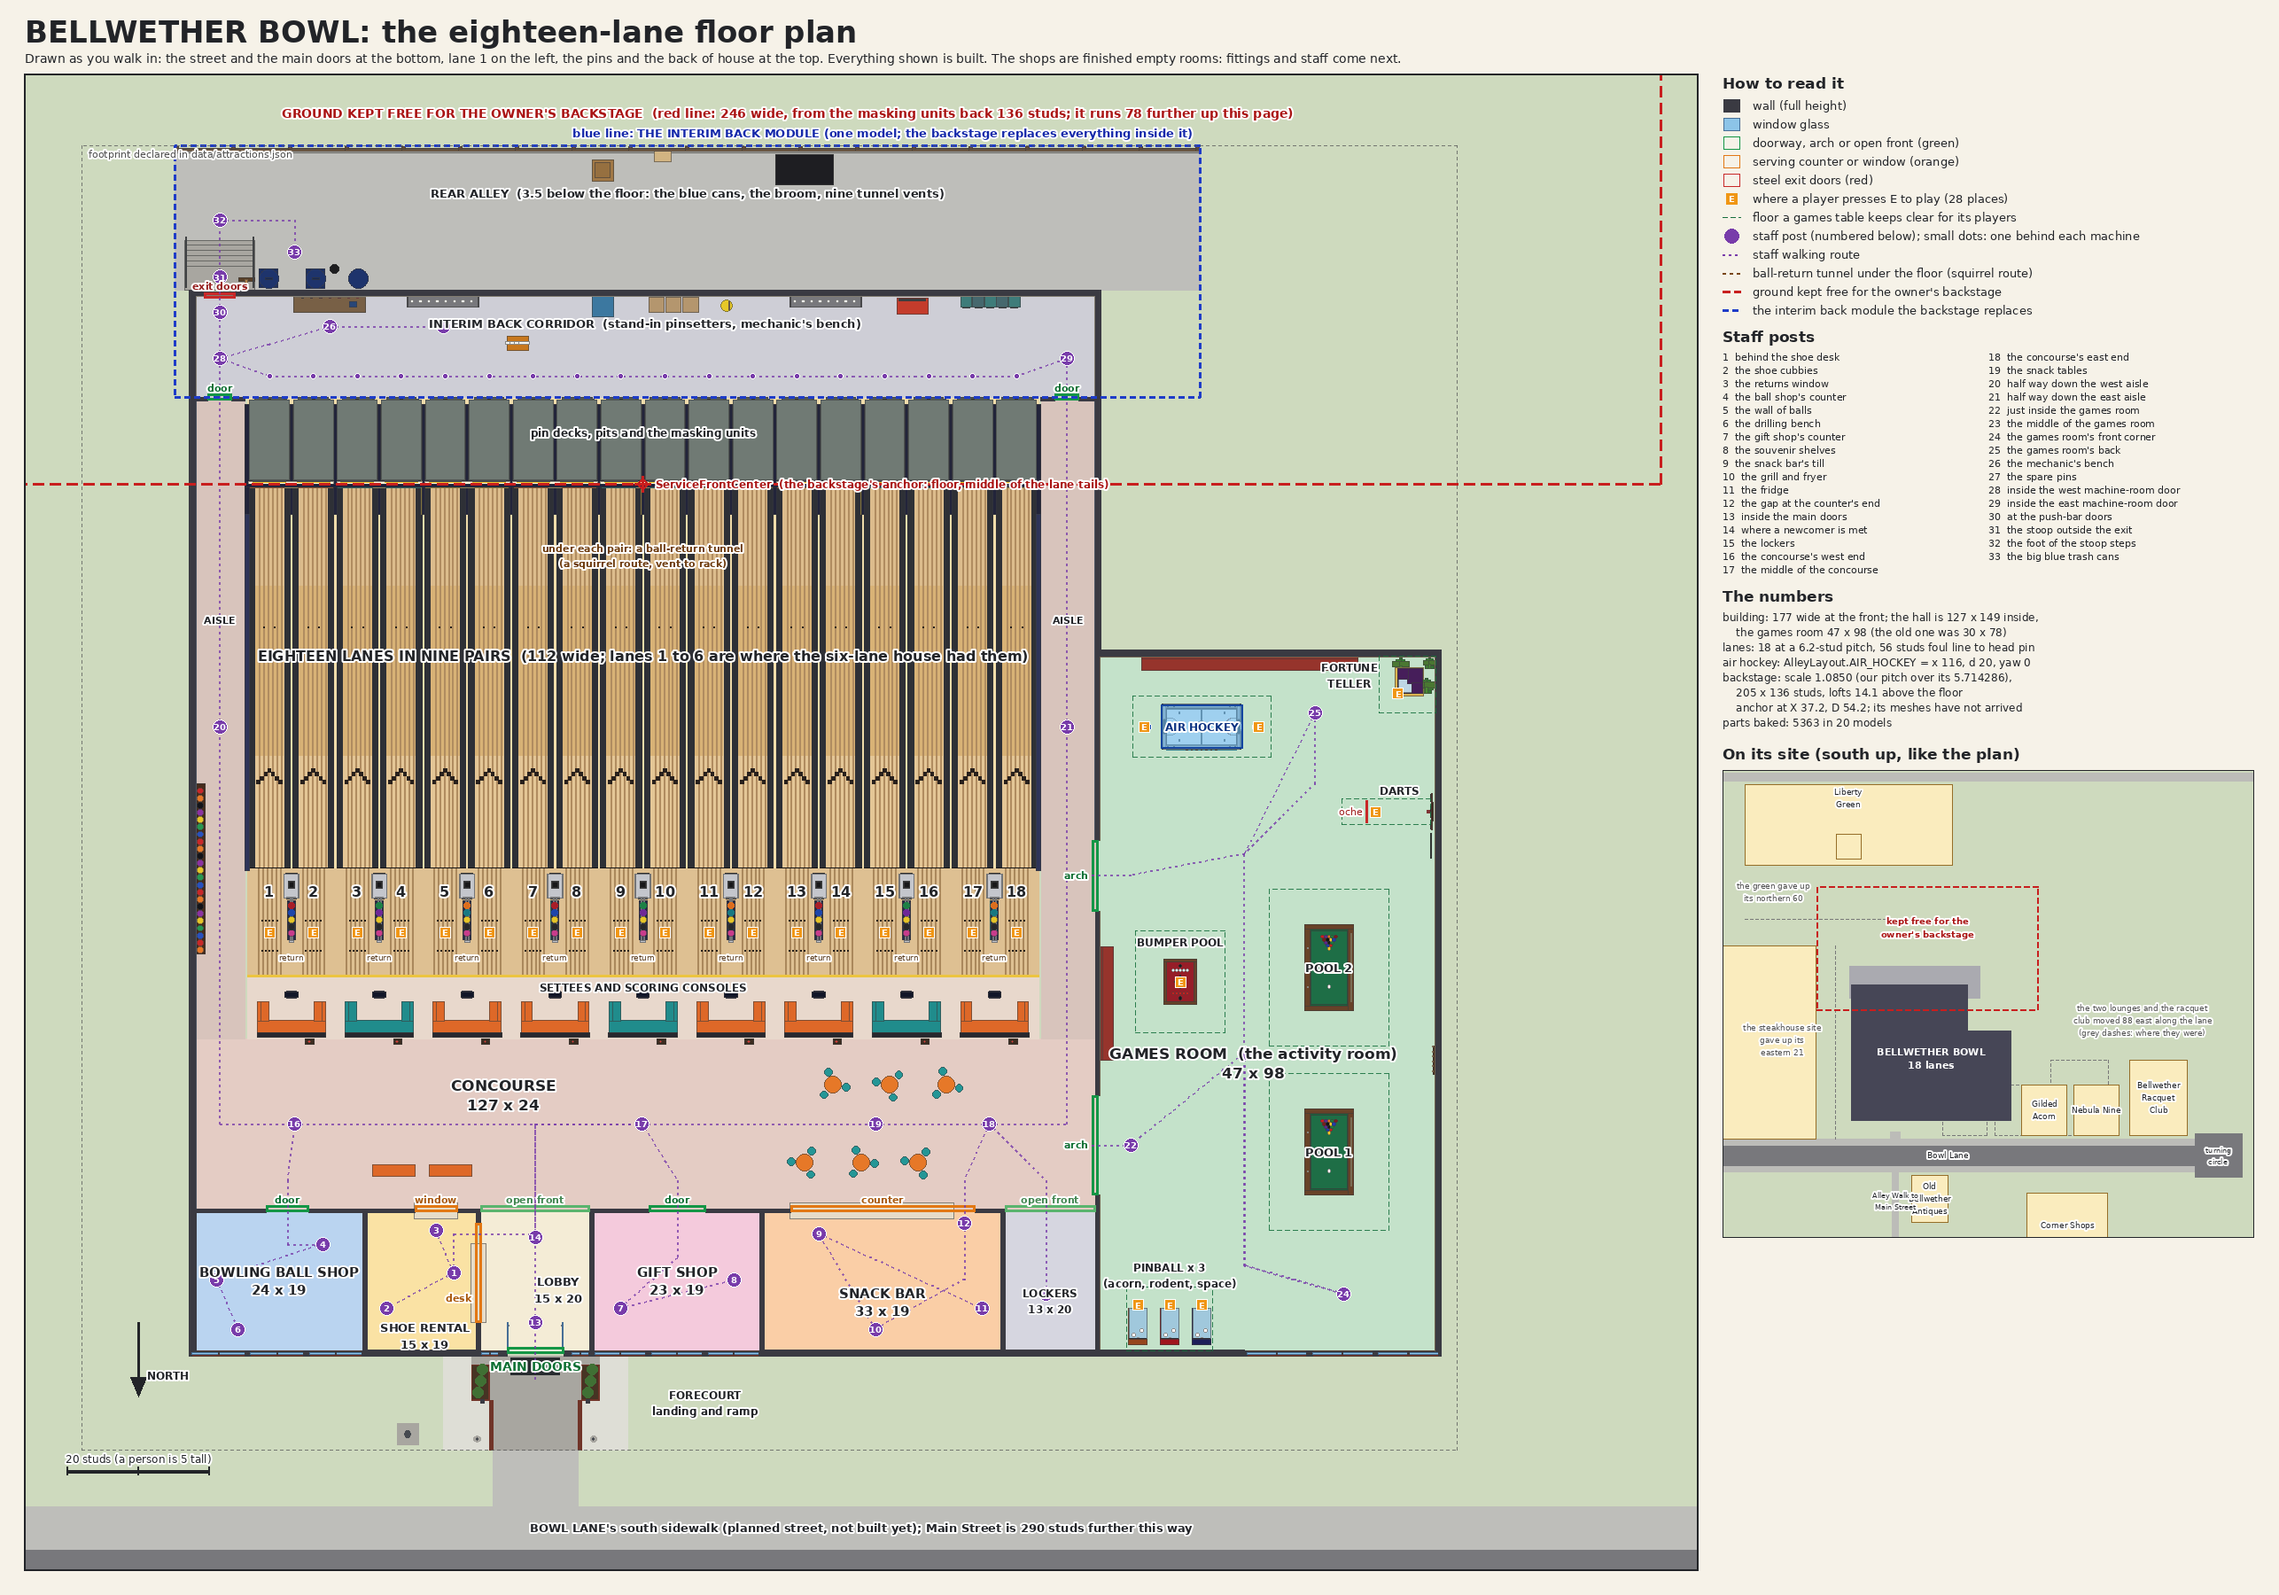
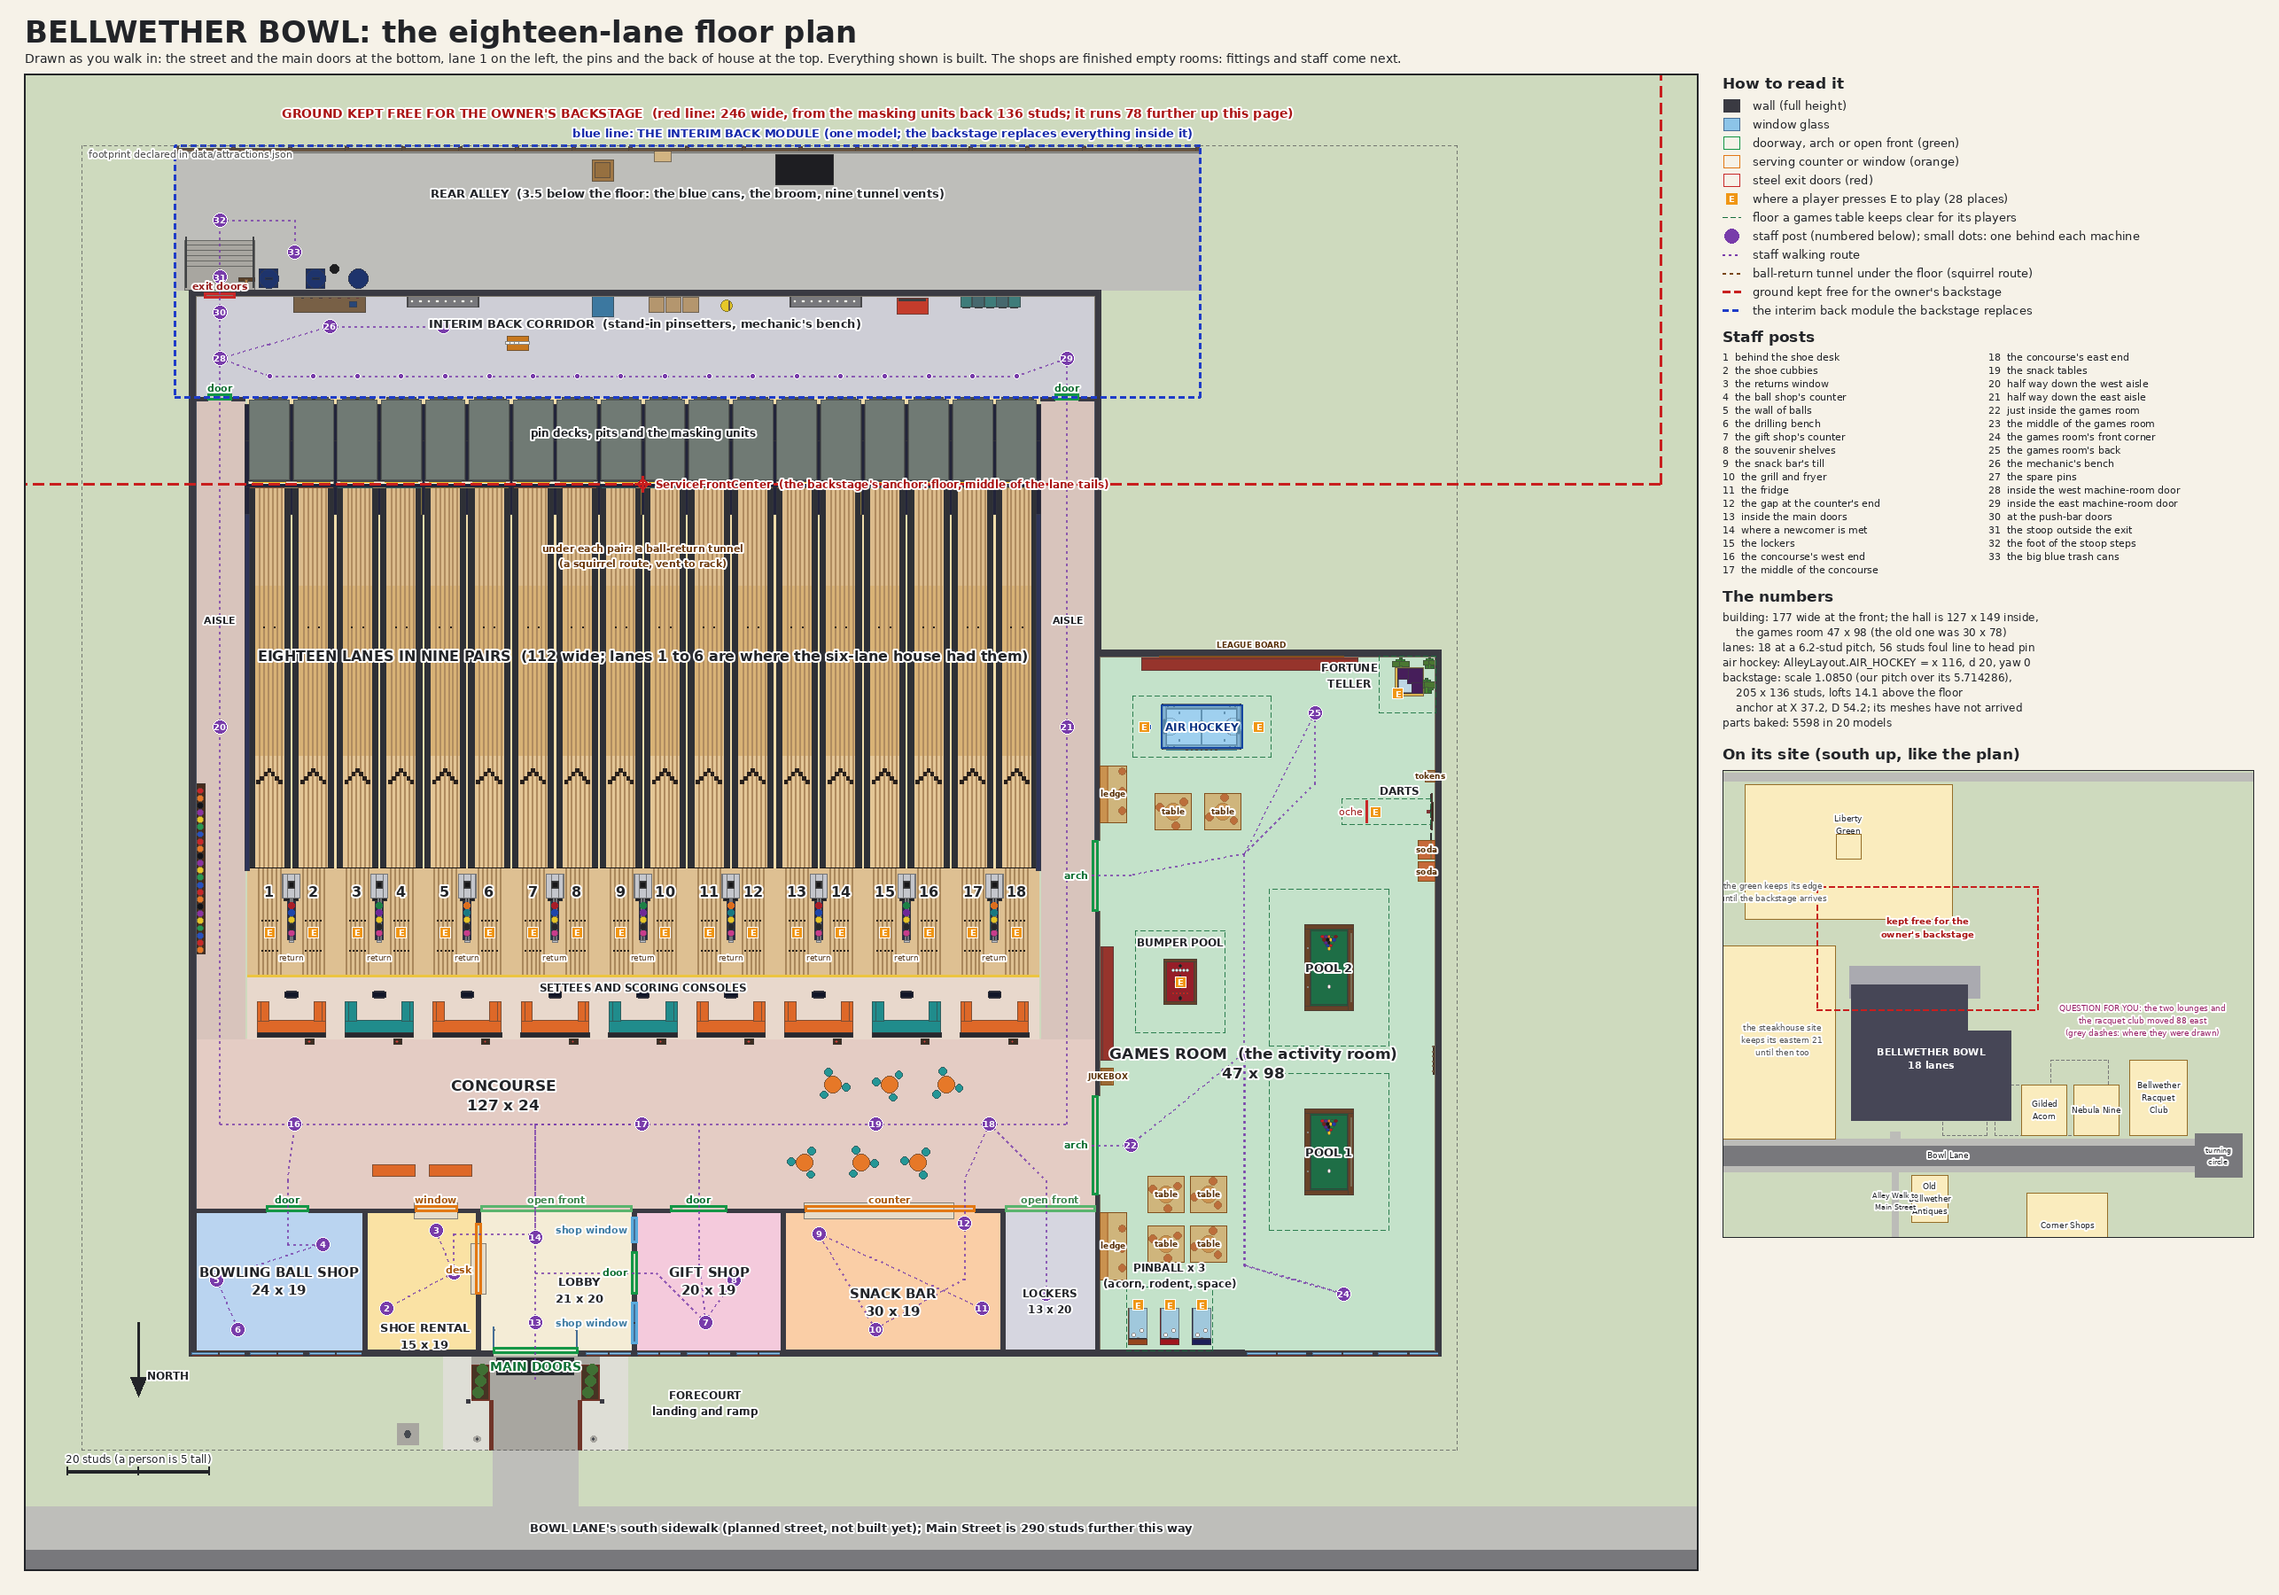
Bowling alley plan picture and handoff: the games room's fixtures, the wider lobby, the site question
00_plan.png draws the games room's new fixtures, the lobby's 12-stud doors and the gift shop's door and glass;
its site inset says the moved lounges are a question for the owner and that the park and the steakhouse keep
their edges until the backstage arrives. HANDOFF 4b: what the backstage swap replaces and keeps, the HallRoof
model the roof run replaces, the nine enclosed runs, the site question.

Claude-Session: https://claude.ai/code/session_01M7kvU21XVNfCAcdQZ7o6vh

diff --git a/tools/review/alley_plan.py b/tools/review/alley_plan.py
@@ -220,6 +220,14 @@ def draw_plan(data):
     for st in data["standing"]:
         pn.dashed_rect(st["x0"], st["x1"], st["d0"], st["d1"], (20, 110, 60, 220), 1, (5, 4))
 
+    # the games room's fixtures (AlleyLayout.GAMES_FIXTURES): jukebox, ledges, high tables, machines, the board
+    words = {"jukebox": "JUKEBOX", "ledge": "ledge", "high_table": "table", "vending": "soda", "change": "tokens",
+             "board": "LEAGUE BOARD"}
+    for fx in data.get("fixtures", []):
+        pn.rect(fx["x0"], fx["x1"], fx["d0"], fx["d1"], fill=(214, 150, 70, 150), outline=(130, 80, 30, 255), width=1)
+        pn.text((fx["x0"] + fx["x1"]) / 2, (fx["d0"] + fx["d1"]) / 2 + (1.6 if fx["kind"] == "board" else 0),
+                words.get(fx["kind"], fx["kind"]), 9, fill=(90, 50, 10), bold=True)
+
     # air hockey: the table (its place is AlleyLayout.AIR_HOCKEY; the game bakes it there)
     ah, size = data["airHockey"], data["airHockeySize"]
     along_x = abs(math.cos(ah["yaw"])) > 0.5
@@ -448,9 +456,9 @@ def draw_site(data, width):
     label(1380, -312, "Bowl Lane", 9)
     label(1680, -312, "turning\ncircle", 8)
     label(1322, -262, "Alley Walk to\nMain Street", 8)
-    label(1596, -462, "the two lounges and the racquet\nclub moved 88 east along the lane\n(grey dashes: where they were)", 9, (80, 80, 80))
-    label(1186, -604, "the green gave up\nits northern 60", 9, (80, 80, 80))
-    label(1196, -440, "the steakhouse site\ngave up its\neastern 21", 9, (80, 80, 80))
+    label(1596, -462, "QUESTION FOR YOU: the two lounges and\nthe racquet club moved 88 east\n(grey dashes: where they were drawn)", 9, (150, 30, 100))
+    label(1186, -604, "the green keeps its edge\nuntil the backstage arrives", 9, (80, 80, 80))
+    label(1196, -440, "the steakhouse site\nkeeps its eastern 21\nuntil then too", 9, (80, 80, 80))
     d.rectangle([0, 0, width - 1, h - 1], outline=INK, width=1)
     return img
 

diff --git a/docs/HANDOFF.md b/docs/HANDOFF.md
@@ -109,8 +109,9 @@ Owner: PedagogyGame (Ben). Project: Spicy Rodents Roblox rebuild. Last updated 2
 
 ## 4b. The bowling alley building (eighteen lanes; branch `feat/alley-18`, 2026-11-13)
 - **The floor plan is data, and only data.** `src/shared/Attractions/AlleyLayout.luau` holds all of it: 18 lanes in 9 pairs (lanes 1 to 6 and every down-lane number where the six-lane house had them), the L-shaped envelope, the rooms as named rectangles (`ZONES`), every doorway and serving opening (`OPENINGS`), the games' table places and the floor each keeps clear (`standing()`; `AIR_HOCKEY = { x, d, yaw }` is the air hockey table's place, which `Minigames/AirHockey/Layout.CENTRE` reads), staff posts and walking routes (`POSTS`, `ROUTES`, `machinePost`, `approachPost`), the floors a body that takes its height from data stands on (`FLOORS`, `floorAt`), and the owner's backstage (`BACKSTAGE`: anchor `ServiceFrontCenter`, scale 1.085, the ground kept for it, and the interim back module it replaces). Move a table or a wall there and the bake, the stations and the specs follow; nothing about the plan is a number in a bake file.
-- **The bake** is `tools/bake/alley/Alley` (Shell, Lanes, Concourse, GamesRoom, BackModule, Forecourt), run by `lune run tools/bake/attractions.luau`. The ball shop, the gift shop, the shoe rental and the snack bar are finished empty rooms with their openings and plain counters: dress them in new files under `tools/bake/alley/`, inside each zone's rectangle, off the staff posts and routes. `BackModule` and `Doors` (everything behind the pinsetters, D > 66.5) are the interim back of house: the backstage replaces them whole and nothing else.
-- **The site** (data only): the building's footprint and the ground kept for the backstage (`reserve`) are in `data/attractions.json`; the expansion compiler keeps every planned venue, street and pad out of both. For the bigger building the two lounges and the racquet club moved 88 studs east along Bowl Lane, Liberty Green gave up its northern 60 studs and the steakhouse site its eastern 21 (`data/expansion.json`).
+- **The bake** is `tools/bake/alley/Alley` (Shell, Lanes, Concourse, GamesRoom, BackModule, Forecourt), run by `lune run tools/bake/attractions.luau`. The ball shop, the gift shop, the shoe rental and the snack bar are finished empty rooms with their openings and plain counters: dress them in new files under `tools/bake/alley/`, inside each zone's rectangle, off the staff posts and routes. The interim back of house is exactly `AlleyLayout.BACKSTAGE.replaces`: `BackModule`, `Doors`, each run's `Tunnels.Tunnel<p>.Tail` and `TerrainCarve.DuctTail<p>` (everything behind D 66.5); `mustKeep` lists what the brief needs from it that the package lacks (the push-bar doors, the three blue cans, the broom, the nine grilles), `returnLegs` the runs to move onto the package's crawl route, `overlapsHall` the hall parts its bays overlap (held to the bake). The hall's roof deck, hung ceiling and lights over the lanes are one model, `HallRoof` (`AlleyLayout.HALL_ROOF`), which the roof run (feat/alley-roof) replaces whole; `hung` names what hangs from that ceiling (the masking face, the scoreboards' hangers).
+- **The ball returns** are nine enclosed runs (routes 9002..9018, kind `tunnel`, Shared/Routes/Enclosure) through a duct built to the squirrel's body: 2.0 wide, floor at Y -3.9 (1.9 of headroom under the pits), a 2.0-high vent, a 2.1-long riser hole, a hollow hood (3.3 tall, mouth 1.9 x 1.5) with a crawl only inside it. `tests/unit/attractions_runthrough.spec` drives the real motor through all nine on the baked building and allows nothing in the way. The duct's lamps reach no further than the duct (`TUNNEL_LIGHT_RANGE` 1.6).
+- **The site** (data only): the building's footprint and the ground kept for the backstage (`reserve`) are in `data/attractions.json`; the expansion compiler keeps every planned venue, street and pad out of both. For the bigger building the two lounges and the racquet club moved 88 studs east along Bowl Lane (`data/expansion.json`). That was the venue map's ALTERNATIVE site, not its default (the games room behind lounge one, the lounges where first drawn): it is a question to the owner on the approval map (`docs/owner/files/town_map.png`, Q1), and nothing is built on either site. Liberty Green and the steakhouse keep their first-drawn sites; the reserve's `givesWayOnArrival` lets them overlap the backstage's ground until the package arrives (the owner's default).
 - **Tests.** `lune run tests/run.luau attractions minigames bake_games`. `attractions_alley.spec` holds the plan to its rules (rooms do not overlap, every opening is on a wall its two rooms share, every table has its own floor, every post and route is on a floor); `attractions_alley_bake.spec` walks a body through the baked parts from the entrance ramp to every post, approach, pinsetter and station, along every route leg, and proves there is no way onto a lane.
 - **Pictures.** `docs/renders/alley18/`: `00_plan.png` is the labelled floor plan (`lune run tools/review/alley_plan.luau; python3 -I tools/review/alley_plan.py`); the eye-level views are `tools/review/views_alley.json` through `tools/review/render.py`. The offline renderer does not draw the game's lamps, so interiors look darker than they will be.
 - **Not done:** the shops' fittings, the staff, the counters' prompts, sound; the street and the walk to the door are still data only; the backstage's meshes have not arrived (its true outline is in the package's `Data/layout.json`); nobody has seen the inside on a screen.
